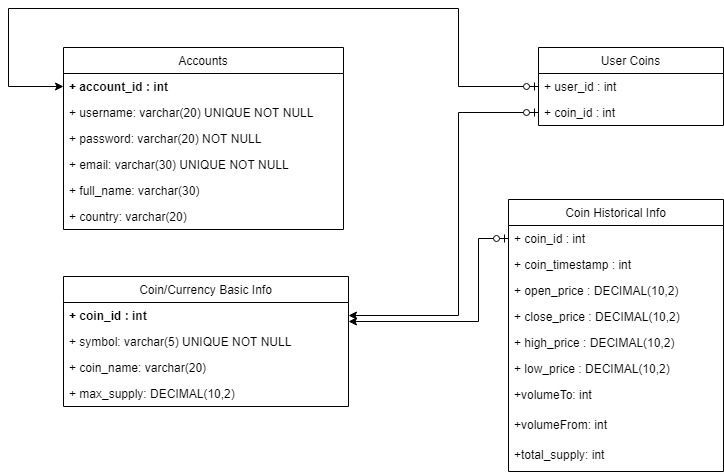
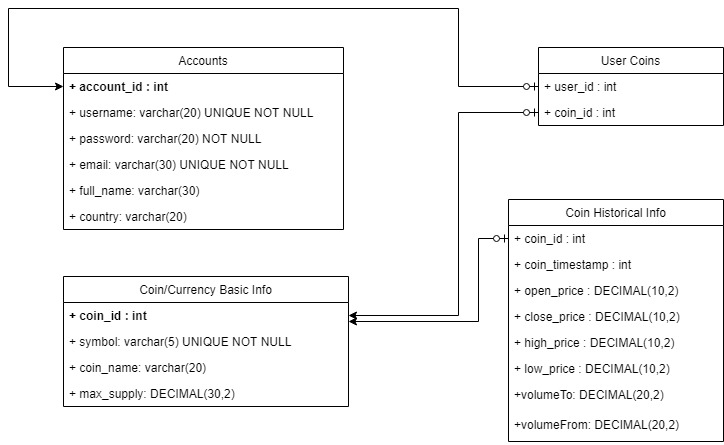
Added gitignore and initialized web project

diff --git a/README.md b/README.md
@@ -9,8 +9,9 @@ For now, my goal is to create a prototype with dummy data but I aim to use the A
 Dummy Data: Bitcoin information collected from the API using the CryptoCollector/script.py file, and the python package made by lagerfeuer.
 
 TODO:
-1. Model schema
-2. Wireframe for front end
+1. Model schema 
+2. Wireframe for front end and user stories
+3. E/R Diagram and user stories
 
 ### Technologies used:
 * Java
@@ -20,6 +21,7 @@ TODO:
 * JUnit
 * Oracle SQL
 * Python
+* Jira
 
 ## Free Services / Third Party software used
 
@@ -36,7 +38,10 @@ https://www.draw.io/
 https://developers.google.com/chart/interactive/docs/
 
 ### Amazon Web Services
-https://aws.amazon.com/ (Credit/Debit needed for free service)
+https://aws.amazon.com/ (Credit/Debit needed for a year of free service)
 
 ### Postman (API development Environment)
 https://www.getpostman.com/
+
+### Wireframe.cc (HTML Layout Development Tool)
+https://wireframe.com
